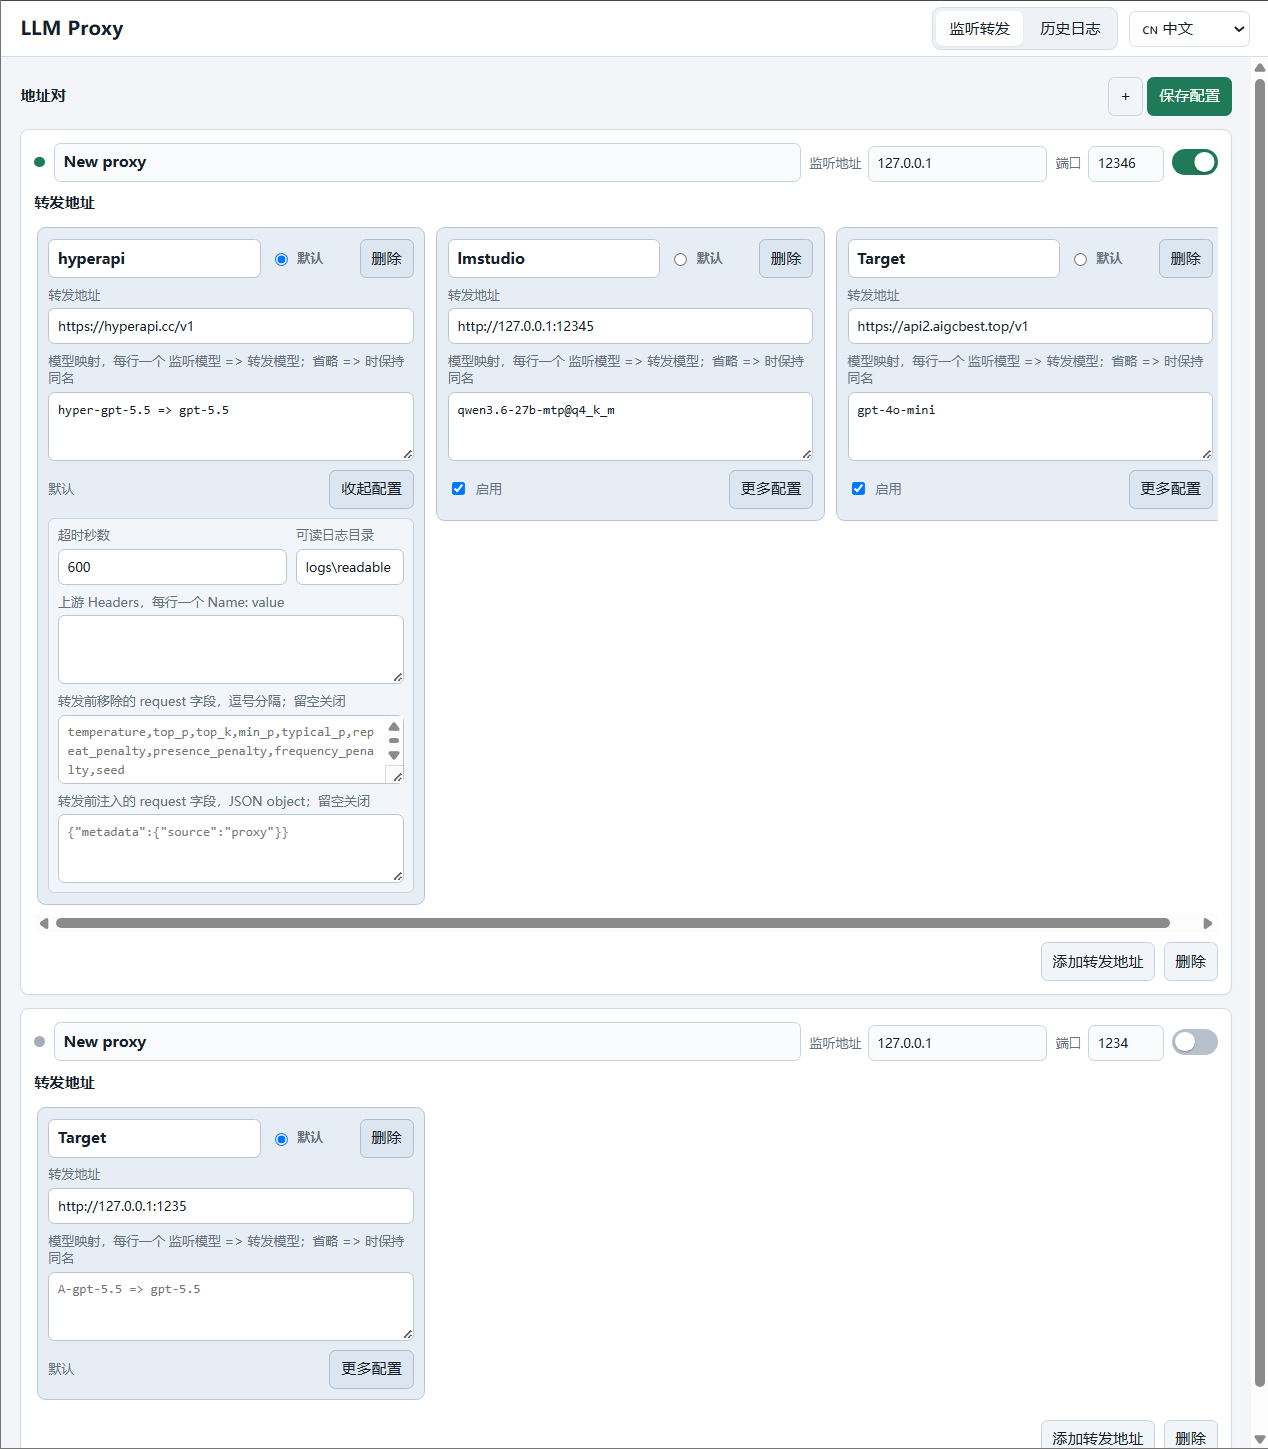
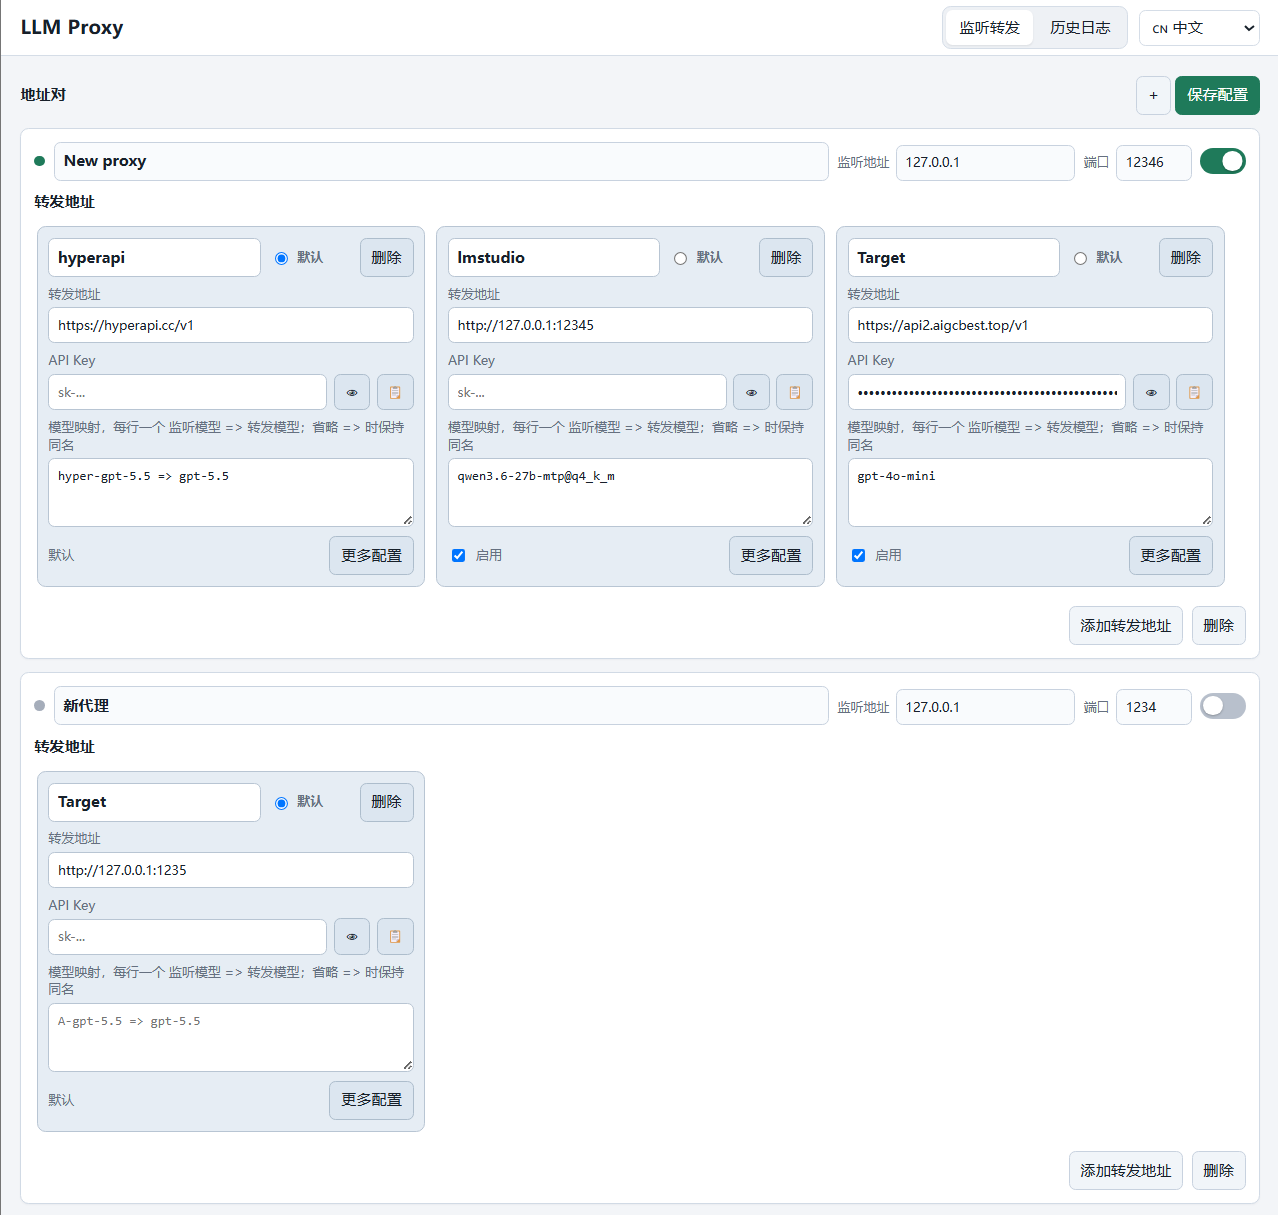
feat: Add API Key support for upstream targets and update related documentation

Changed region(s): [[0.0, 0.0, 1.0, 1.0], [0.6459, 0.7004, 0.7382, 0.7309], [0.0, 0.0, 0.0923, 0.0305]]

diff --git a/llm_proxy/ui.py b/llm_proxy/ui.py
@@ -63,6 +63,8 @@ INDEX_HTML = r"""<!doctype html>
     .target-controls { display: flex; gap: 8px; align-items: center; justify-content: space-between; }
     .target-enabled { display: inline-flex; width: auto; align-items: center; gap: 6px; color: var(--muted); font-size: 12px; }
     .target-enabled input { width: auto; }
+    .secret-field { display: grid; grid-template-columns: minmax(0, 1fr) 34px 34px; gap: 6px; align-items: center; }
+    .secret-field button { height: 34px; padding: 0; display: inline-grid; place-items: center; }
     .proxy-head { display: grid; grid-template-columns: minmax(180px, 1fr) minmax(160px, 220px) 100px auto; gap: 8px; align-items: end; }
     .proxy-title { display: flex; align-items: center; gap: 8px; font-weight: 650; min-width: 0; }
     .proxy-title input { min-width: 0; }
@@ -218,6 +220,7 @@ INDEX_HTML = r"""<!doctype html>
         copyJson: "复制 JSON",
         copiedJson: "已复制 JSON",
         copiedText: "已复制格式化文本",
+        copiedApiKey: "已复制 API Key",
         copyFailed: "复制失败",
         savedConfig: "配置已保存",
         newProxy: "新代理",
@@ -225,6 +228,10 @@ INDEX_HTML = r"""<!doctype html>
         listenHost: "监听地址",
         port: "端口",
         targetUrl: "转发地址",
+        targetApiKey: "API Key",
+        showApiKey: "显示 API Key",
+        hideApiKey: "隐藏 API Key",
+        copyApiKey: "复制 API Key",
         timeoutSeconds: "超时秒数",
         readableLogDir: "日志目录",
         upstreamHeaders: "上游 Headers，每行一个 Name: value",
@@ -268,6 +275,7 @@ INDEX_HTML = r"""<!doctype html>
         copyJson: "Copy JSON",
         copiedJson: "Copied JSON",
         copiedText: "Copied formatted text",
+        copiedApiKey: "Copied API Key",
         copyFailed: "Copy failed",
         savedConfig: "Config saved",
         newProxy: "New proxy",
@@ -275,6 +283,10 @@ INDEX_HTML = r"""<!doctype html>
         listenHost: "Listen host",
         port: "Port",
         targetUrl: "Target URL",
+        targetApiKey: "API Key",
+        showApiKey: "Show API Key",
+        hideApiKey: "Hide API Key",
+        copyApiKey: "Copy API Key",
         timeoutSeconds: "Timeout seconds",
         readableLogDir: "Log directory",
         upstreamHeaders: "Upstream headers, one Name: value per line",
@@ -340,11 +352,11 @@ INDEX_HTML = r"""<!doctype html>
       return status === undefined || status === null || status === "pending" ? t("pending") : String(status);
     }
     const suggestedStripRequestFields = __SUGGESTED_STRIP_REQUEST_FIELDS__;
-    const newTarget = () => ({ id: `target-${Date.now()}-${Math.random().toString(16).slice(2)}`, name: "Target", enabled: true, target_url: "http://127.0.0.1:1235", target_headers: [], strip_request_fields: "", inject_request_fields: "", timeout: 600, readable_log_dir: "logs", model_mappings: [], expanded: false });
+    const newTarget = () => ({ id: `target-${Date.now()}-${Math.random().toString(16).slice(2)}`, name: "Target", enabled: true, target_url: "http://127.0.0.1:1235", target_api_key: "", target_headers: [], strip_request_fields: "", inject_request_fields: "", timeout: 600, readable_log_dir: "logs", model_mappings: [], expanded: false });
     const newPair = () => { const target = newTarget(); return { id: `proxy-${Date.now()}`, name: t("newProxy"), enabled: false, running: false, listen_host: "127.0.0.1", listen_port: 1234, access_log: false, targets: [target], default_target_id: target.id }; };
     function pairTargets(pair) {
       if (Array.isArray(pair.targets) && pair.targets.length) return pair.targets;
-      const target = { id: "target-1", name: "Target", enabled: true, target_url: pair.target_url || "http://127.0.0.1:1235", target_headers: pair.target_headers || [], strip_request_fields: pair.strip_request_fields || "", inject_request_fields: pair.inject_request_fields || "", timeout: pair.timeout || 600, readable_log_dir: pair.readable_log_dir || "logs", model_mappings: pair.model_mappings || [], expanded: false };
+      const target = { id: "target-1", name: "Target", enabled: true, target_url: pair.target_url || "http://127.0.0.1:1235", target_api_key: pair.target_api_key || "", target_headers: pair.target_headers || [], strip_request_fields: pair.strip_request_fields || "", inject_request_fields: pair.inject_request_fields || "", timeout: pair.timeout || 600, readable_log_dir: pair.readable_log_dir || "logs", model_mappings: pair.model_mappings || [], expanded: false };
       pair.targets = [target];
       pair.default_target_id = pair.default_target_id || target.id;
       return pair.targets;
@@ -365,6 +377,14 @@ INDEX_HTML = r"""<!doctype html>
             <button data-remove-target>${escapeHtml(t("delete"))}</button>
           </div>
           <label><span>${escapeHtml(t("targetUrl"))}</span><input data-target-field="target_url" value="${escapeHtml(target.target_url || "")}" placeholder="https://api.example.com/v1"></label>
+          <label>
+            <span>${escapeHtml(t("targetApiKey"))}</span>
+            <div class="secret-field">
+              <input data-target-field="target_api_key" type="password" value="${escapeHtml(target.target_api_key || "")}" placeholder="sk-...">
+              <button type="button" data-toggle-api-key title="${escapeHtml(t("showApiKey"))}">👁</button>
+              <button type="button" data-copy-api-key title="${escapeHtml(t("copyApiKey"))}">📋</button>
+            </div>
+          </label>
           <label><span>${escapeHtml(t("modelMappings"))}</span><textarea data-target-field="model_mappings" placeholder="A-gpt-5.5 => gpt-5.5">${escapeHtml(mappingsText(target.model_mappings))}</textarea></label>
           <div class="target-controls">
             ${isDefault ? `<span class="target-enabled">${escapeHtml(t("defaultTarget"))}</span>` : `<label class="target-enabled"><input type="checkbox" data-target-enabled ${target.enabled !== false ? "checked" : ""}> <span>${escapeHtml(t("targetEnabled"))}</span></label>`}
@@ -628,6 +648,26 @@ INDEX_HTML = r"""<!doctype html>
         const target = pairTargets(pair)[Number(targetCard.dataset.targetIndex)];
         target.expanded = !target.expanded;
         rerenderPairAtScroll(card, targetScrollLeft);
+        return;
+      }
+      if (event.target.matches("[data-toggle-api-key]")) {
+        const field = event.target.closest(".secret-field");
+        const input = field?.querySelector("[data-target-field='target_api_key']");
+        if (!input) return;
+        const visible = input.type === "text";
+        input.type = visible ? "password" : "text";
+        event.target.classList.toggle("active", !visible);
+        event.target.title = t(visible ? "showApiKey" : "hideApiKey");
+        return;
+      }
+      if (event.target.matches("[data-copy-api-key]")) {
+        const field = event.target.closest(".secret-field");
+        const input = field?.querySelector("[data-target-field='target_api_key']");
+        if (!input) return;
+        navigator.clipboard.writeText(input.value || "").then(
+          () => toast(t("copiedApiKey")),
+          () => toast(t("copyFailed"))
+        );
         return;
       }
       if (event.target.matches("[data-remove-target]")) {

diff --git a/tests/test_proxy.py b/tests/test_proxy.py
@@ -1255,6 +1255,73 @@ class TargetUrlProxyTests(unittest.TestCase):
             upstream.server_close()
             log_dir.cleanup()
 
+    def test_target_api_key_overrides_authorization_header(self) -> None:
+        upstream_seen: dict[str, object] = {}
+
+        class UpstreamHandler(BaseHTTPRequestHandler):
+            def do_POST(self) -> None:
+                length = int(self.headers.get("Content-Length", "0"))
+                self.rfile.read(length)
+                upstream_seen["authorization"] = self.headers.get("Authorization")
+                body = b'{"ok":true}'
+                self.send_response(200)
+                self.send_header("Content-Type", "application/json")
+                self.send_header("Content-Length", str(len(body)))
+                self.end_headers()
+                self.wfile.write(body)
+
+            def log_message(self, fmt: str, *args: object) -> None:
+                return
+
+        upstream = ThreadingHTTPServer(("127.0.0.1", 0), UpstreamHandler)
+        upstream_thread = threading.Thread(target=upstream.serve_forever, daemon=True)
+        upstream_thread.start()
+        log_dir = tempfile.TemporaryDirectory()
+        proxy = None
+        try:
+            log_root = Path(log_dir.name)
+            logger = TrafficLogger(log_root / "interactions.jsonl", log_root / "readable")
+            proxy = ProxyServer(
+                ("127.0.0.1", 0),
+                ProxyHandler,
+                {
+                    "target_scheme": "http",
+                    "target_host": "127.0.0.1",
+                    "target_port": upstream.server_address[1],
+                    "target_base_path": "/v1",
+                    "target_api_key": "sk-target",
+                    "target_headers": [("Authorization", "Bearer sk-header")],
+                    "strip_request_fields": set(),
+                    "inject_request_fields": {},
+                    "timeout": 5,
+                    "access_log": False,
+                },
+                logger,
+            )
+            proxy_thread = threading.Thread(target=proxy.serve_forever, daemon=True)
+            proxy_thread.start()
+
+            conn = http.client.HTTPConnection("127.0.0.1", proxy.server_address[1], timeout=5)
+            conn.request(
+                "POST",
+                "/v1/responses",
+                body=b'{}',
+                headers={"Authorization": "Bearer sk-client", "Content-Type": "application/json"},
+            )
+            response = conn.getresponse()
+            self.assertEqual(response.status, 200)
+            self.assertEqual(response.read(), b'{"ok":true}')
+            conn.close()
+
+            self.assertEqual(upstream_seen["authorization"], "Bearer sk-target")
+        finally:
+            if proxy is not None:
+                proxy.shutdown()
+                proxy.server_close()
+            upstream.shutdown()
+            upstream.server_close()
+            log_dir.cleanup()
+
     def test_injects_configured_request_fields_before_forwarding(self) -> None:
         upstream_seen: dict[str, object] = {}
 

diff --git a/llm_proxy/manager.py b/llm_proxy/manager.py
@@ -65,6 +65,7 @@ class ProxyManager:
                         "listen_host": "127.0.0.1",
                         "listen_port": 1234,
                         "target_url": "http://127.0.0.1:1235",
+                        "target_api_key": "",
                         "target_headers": [],
                         "strip_request_fields": "",
                         "inject_request_fields": "",
@@ -167,6 +168,7 @@ class ProxyManager:
             "target_host": first_target["target_host"],
             "target_port": first_target["target_port"],
             "target_base_path": first_target["target_base_path"],
+            "target_api_key": first_target["target_api_key"],
             "target_headers": first_target["target_headers"],
             "strip_request_fields": first_target["strip_request_fields"],
             "inject_request_fields": first_target["inject_request_fields"],
@@ -206,6 +208,7 @@ class ProxyManager:
             "target_host": target["host"],
             "target_port": target["port"],
             "target_base_path": target["base_path"],
+            "target_api_key": str(target_pair.get("target_api_key") or "").strip(),
             "target_headers": parse_header_overrides(list(target_pair.get("target_headers") or [])),
             "strip_request_fields": parse_strip_request_fields(target_pair.get("strip_request_fields")),
             "inject_request_fields": parse_inject_request_fields(target_pair.get("inject_request_fields")),
@@ -254,6 +257,7 @@ class ProxyManager:
             "target_scheme": str(pair.get("target_scheme") or "http"),
             "target_host": str(pair.get("target_host") or "127.0.0.1"),
             "target_port": int(pair.get("target_port") or 1235),
+            "target_api_key": str(pair.get("target_api_key") or "").strip(),
             "target_headers": list(pair.get("target_headers") or []),
             "strip_request_fields": pair.get("strip_request_fields"),
             "inject_request_fields": str(inject_request_fields),
@@ -280,6 +284,7 @@ class ProxyManager:
             "target_scheme": str(target.get("target_scheme") or "http"),
             "target_host": str(target.get("target_host") or "127.0.0.1"),
             "target_port": int(target.get("target_port") or 1235),
+            "target_api_key": str(target.get("target_api_key") or "").strip(),
             "target_headers": list(target.get("target_headers") or []),
             "strip_request_fields": target.get("strip_request_fields") or "",
             "inject_request_fields": str(inject_request_fields),

diff --git a/llm_proxy/server.py b/llm_proxy/server.py
@@ -107,6 +107,11 @@ class ProxyHandler(BaseHTTPRequestHandler):
             # 用户通过 --target-header 指定的头拥有最高优先级，会覆盖客户端原来的同名头。
             forwarded = [(key, value) for key, value in forwarded if key.lower() not in override_keys]
             forwarded.extend(target["target_headers"])  # type: ignore[arg-type]
+        target_api_key = str(target.get("target_api_key") or "").strip()
+        if target_api_key:
+            auth_value = target_api_key if target_api_key.lower().startswith("bearer ") else f"Bearer {target_api_key}"
+            forwarded = [(key, value) for key, value in forwarded if key.lower() != "authorization"]
+            forwarded.append(("Authorization", auth_value))
         return forwarded
 
     def _upstream_headers(self, target: dict[str, object], body_size: int) -> list[tuple[str, str]]:
@@ -130,6 +135,7 @@ class ProxyHandler(BaseHTTPRequestHandler):
                 "target_host": self.server_config["target_host"],
                 "target_port": self.server_config["target_port"],
                 "target_base_path": self.server_config["target_base_path"],
+                "target_api_key": self.server_config.get("target_api_key", ""),
                 "target_headers": self.server_config["target_headers"],
                 "strip_request_fields": self.server_config["strip_request_fields"],
                 "inject_request_fields": self.server_config.get("inject_request_fields", {}),

diff --git a/llm_proxy/cli.py b/llm_proxy/cli.py
@@ -45,6 +45,11 @@ def parse_args() -> argparse.Namespace:
     parser.add_argument("--target-host", default=os.getenv("LLM_PROXY_TARGET_HOST", "127.0.0.1"))
     parser.add_argument("--target-port", type=int, default=int(os.getenv("LLM_PROXY_TARGET_PORT", "1235")))
     parser.add_argument(
+        "--target-api-key",
+        default=os.getenv("LLM_PROXY_TARGET_API_KEY", ""),
+        help="API key for the upstream target. If set, overrides the Authorization header with Bearer <key>.",
+    )
+    parser.add_argument(
         "--target-header",
         action="append",
         default=None,
@@ -124,6 +129,7 @@ def main() -> int:
         "target_host": target["host"],
         "target_port": target["port"],
         "target_base_path": target["base_path"],
+        "target_api_key": str(args.target_api_key or "").strip(),
         "target_headers": target_headers,
         "strip_request_fields": strip_request_fields,
         "inject_request_fields": inject_request_fields,

diff --git a/README.cn.md b/README.cn.md
@@ -102,6 +102,7 @@ http://127.0.0.1:1234
 
 - 启用状态。默认转发地址始终可用；非默认地址可以关闭。
 - 上游目标 URL。
+- API Key；如果设置，会添加或替换转发请求中的 `Authorization: Bearer ...`。
 - 模型映射，每行一个。格式为 `监听模型 => 转发模型`；如果省略 `=> 转发模型`，则保持同名转发。
 - 超时时间。
 - 日志目录，默认 `logs`。
@@ -109,7 +110,7 @@ http://127.0.0.1:1234
 - 转发前需要移除的 request 字段。
 - 转发前需要注入的 request 字段，格式为 JSON object。
 
-默认情况下，每个转发地址只显示 URL 和模型映射。点击转发地址块里的 **更多配置** 可展开超时、日志目录、headers 和 request 字段改写选项。
+默认情况下，每个转发地址显示 URL、API Key 和模型映射。点击转发地址块里的 **更多配置** 可展开超时、日志目录、headers 和 request 字段改写选项。
 
 代理地址对默认保存到 `logs/proxies.json`，也可以通过 `--config-file` 指定其他配置文件。
 
@@ -164,7 +165,7 @@ fallback-model
 ### 查看远程网关请求
 
 1. 创建代理地址对，将 target URL 设置为 `https://openrouter.ai/api/v1` 或其他 OpenAI-compatible 地址。
-2. 在转发地址块的 **更多配置** 中填写必要的上游 headers，例如 `Authorization: Bearer ...`。
+2. 在转发地址块的 **API Key** 中填写上游 key，例如 `sk-or-...`。
 3. 启用代理地址对。
 4. 将本地客户端指向该代理的监听地址。
 
@@ -226,7 +227,7 @@ python -m llm_proxy --target-url https://openrouter.ai/api/v1
 ```powershell
 python -m llm_proxy `
   --target-url https://openrouter.ai/api/v1 `
-  --target-header "Authorization: Bearer sk-or-..." `
+  --target-api-key "sk-or-..." `
   --target-header "HTTP-Referer: http://localhost" `
   --target-header "X-Title: LLM Proxy"
 ```
@@ -253,6 +254,7 @@ python -m llm_proxy --inject-request-fields '{"metadata":{"source":"proxy"},"str
 - `--target-scheme` / `LLM_PROXY_TARGET_SCHEME`
 - `--target-host` / `LLM_PROXY_TARGET_HOST`
 - `--target-port` / `LLM_PROXY_TARGET_PORT`
+- `--target-api-key` / `LLM_PROXY_TARGET_API_KEY`
 - `--target-header`
 - `--timeout` / `LLM_PROXY_TIMEOUT`
 - `--strip-request-fields` / `LLM_PROXY_STRIP_REQUEST_FIELDS`

diff --git a/README.md b/README.md
@@ -102,6 +102,7 @@ Each upstream target includes:
 
 - Enabled state. The default target is always available as fallback; non-default targets can be disabled.
 - Upstream target URL.
+- API Key. If set, it adds or replaces `Authorization: Bearer ...` on forwarded requests.
 - Model mappings, one per line. Use `local-model => upstream-model`; omit `=> upstream-model` to keep the same model name.
 - Timeout.
 - Log directory, default `logs`.
@@ -109,7 +110,7 @@ Each upstream target includes:
 - Request fields to strip before forwarding.
 - Request fields to inject before forwarding as a JSON object.
 
-Only the target URL and model mappings are shown by default. Use **More settings** on a target card to reveal timeout, readable log directory, headers, and request-field rewriting options.
+The target URL, API Key, and model mappings are shown by default. Use **More settings** on a target card to reveal timeout, readable log directory, headers, and request-field rewriting options.
 
 Proxy pairs are saved to `logs/proxies.json` unless `--config-file` is provided.
 
@@ -164,7 +165,7 @@ The **History** tab lets you review captured traffic without opening log files m
 ### Inspect A Remote Gateway
 
 1. Create a proxy pair with target URL `https://openrouter.ai/api/v1` or another OpenAI-compatible endpoint.
-2. Add required upstream headers in the target card's **More settings** section, such as `Authorization: Bearer ...`.
+2. Add the upstream key in the target card's **API Key** field, for example `sk-or-...`.
 3. Enable the proxy pair.
 4. Point your local client at the proxy listen address.
 
@@ -226,7 +227,7 @@ Header injection example:
 ```powershell
 python -m llm_proxy `
   --target-url https://openrouter.ai/api/v1 `
-  --target-header "Authorization: Bearer sk-or-..." `
+  --target-api-key "sk-or-..." `
   --target-header "HTTP-Referer: http://localhost" `
   --target-header "X-Title: LLM Proxy"
 ```
@@ -253,6 +254,7 @@ Common launcher options and environment variables:
 - `--target-scheme` / `LLM_PROXY_TARGET_SCHEME`
 - `--target-host` / `LLM_PROXY_TARGET_HOST`
 - `--target-port` / `LLM_PROXY_TARGET_PORT`
+- `--target-api-key` / `LLM_PROXY_TARGET_API_KEY`
 - `--target-header`
 - `--timeout` / `LLM_PROXY_TIMEOUT`
 - `--strip-request-fields` / `LLM_PROXY_STRIP_REQUEST_FIELDS`
